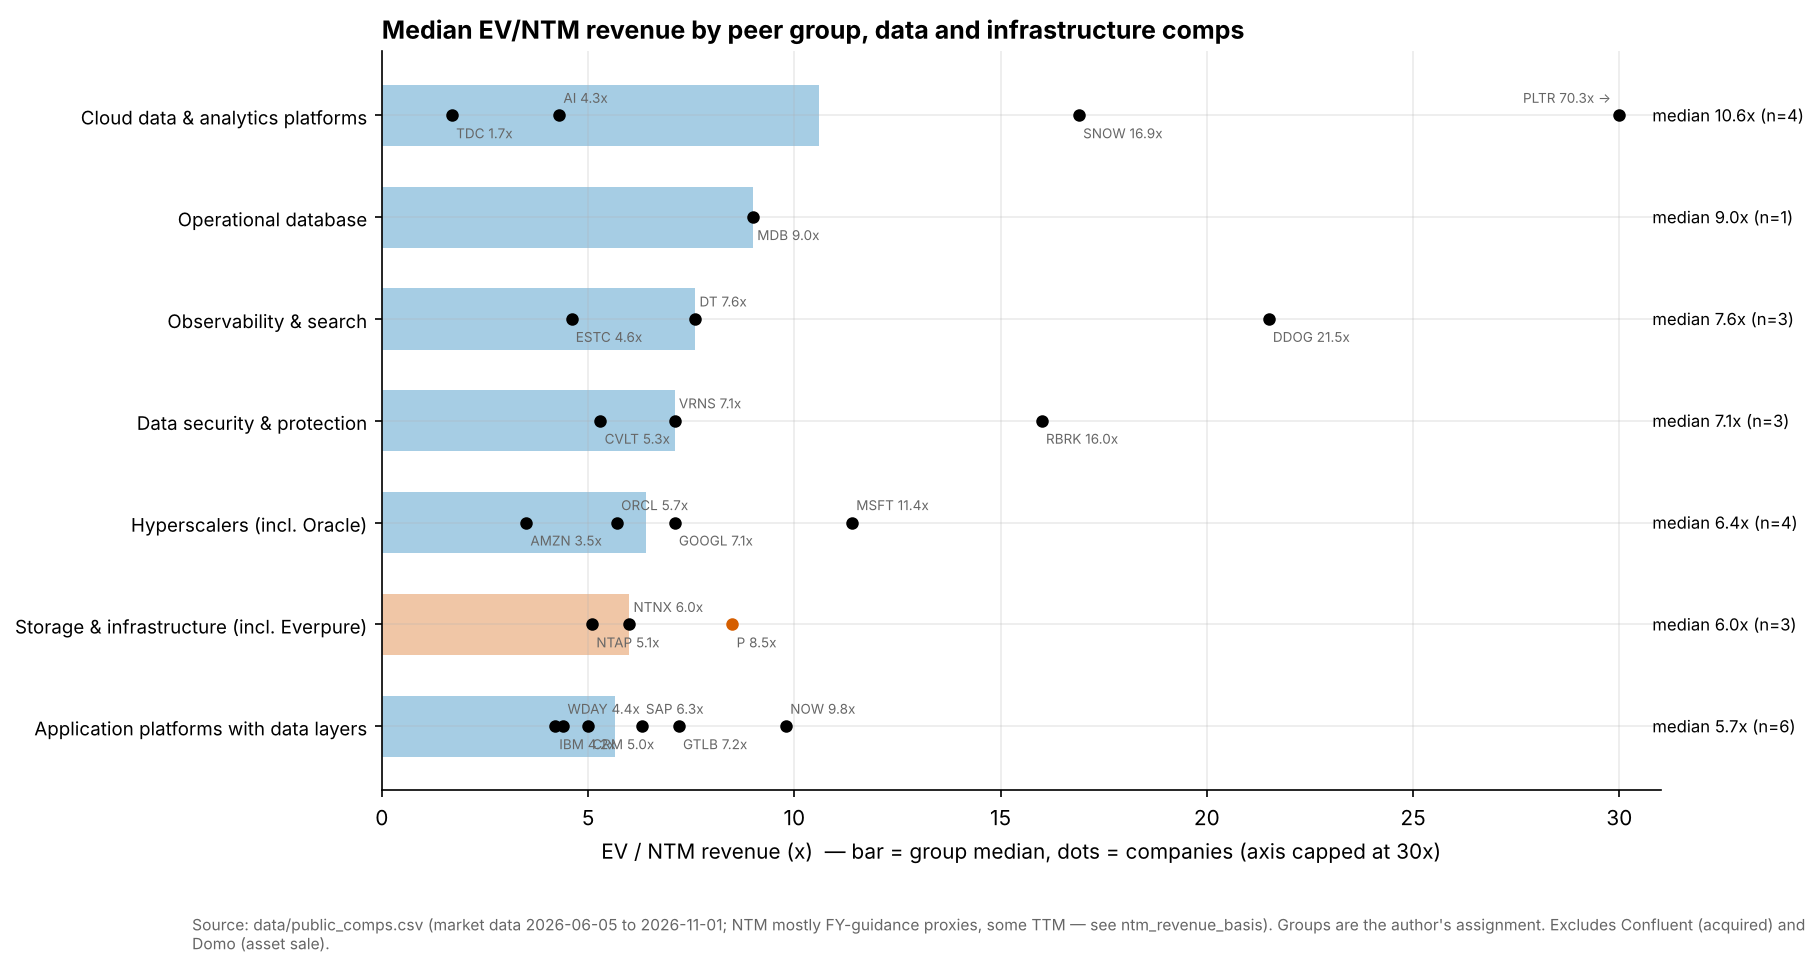
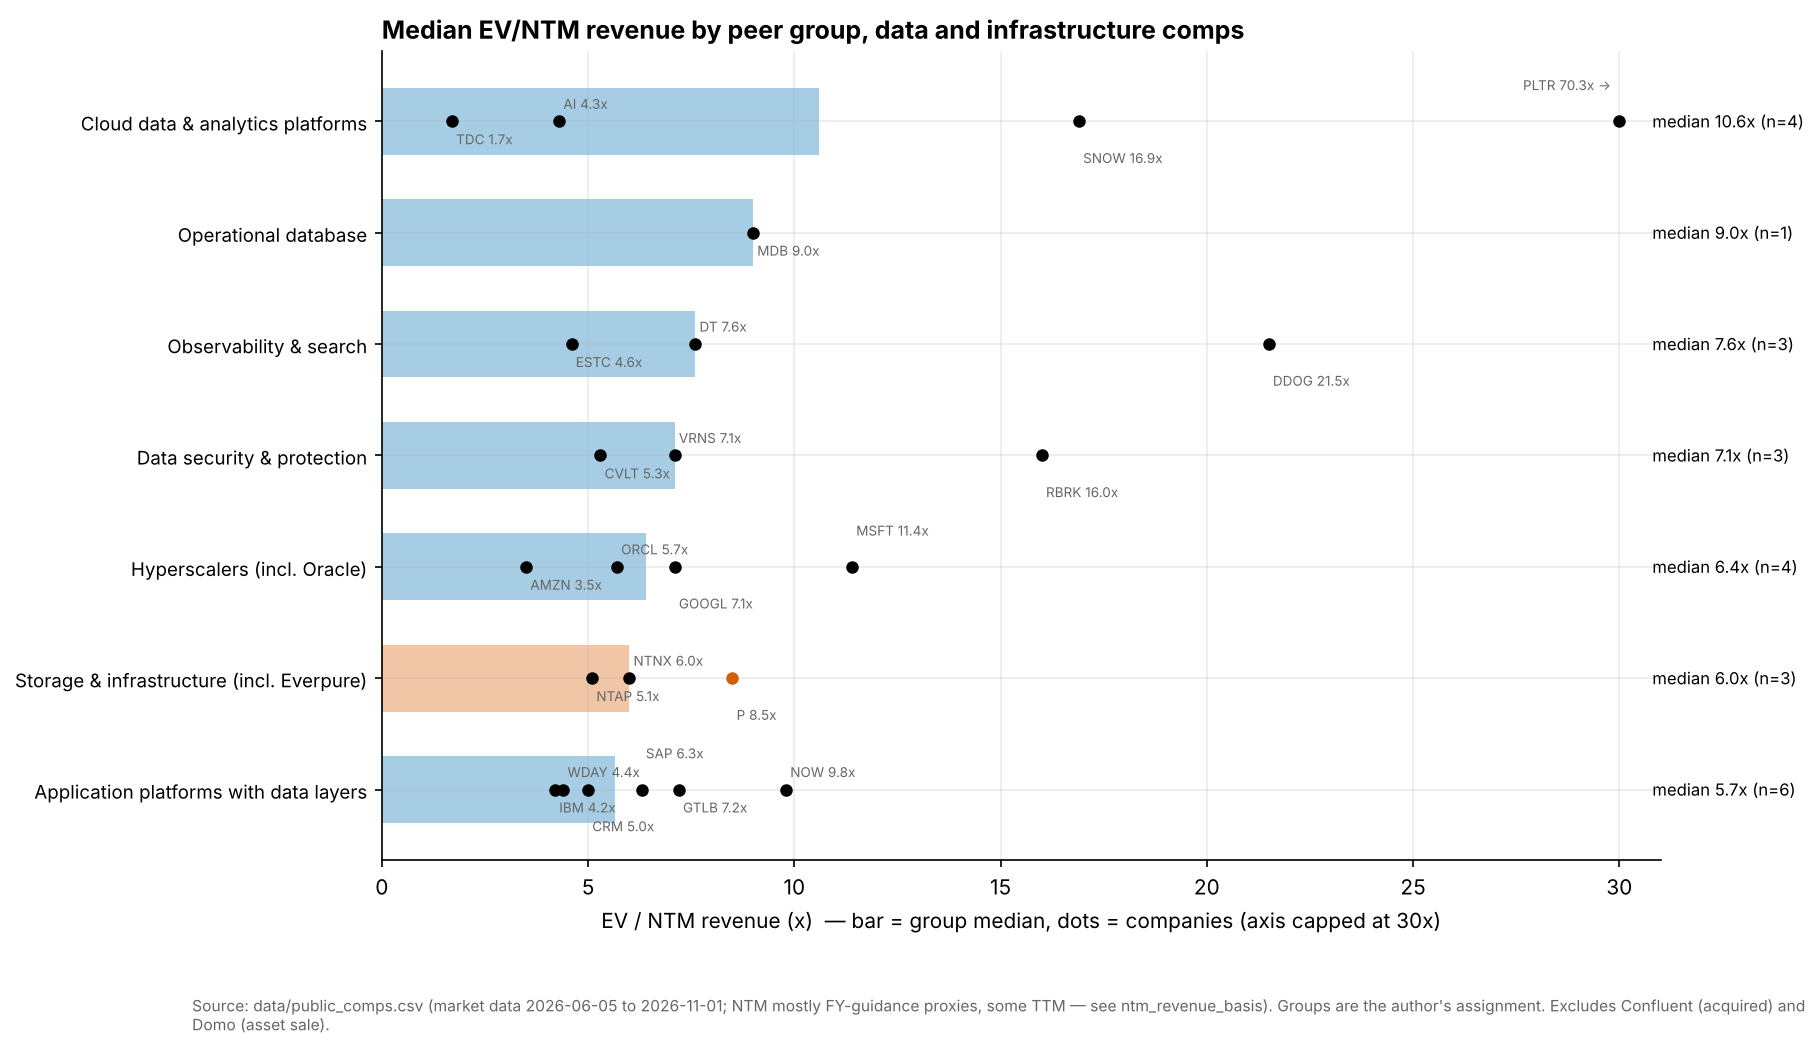
meta: reviewer brief; progress
Claude-Session: https://claude.ai/code/session_015j6Et44vVa5dK62bXN3KKX

diff --git a/scripts/charts/ch36_rule_of_40.py b/scripts/charts/ch36_rule_of_40.py
@@ -1,0 +1,46 @@
+"""Ch 36: Rule of 40 scatter - latest revenue growth vs FCF margin (data/ch36_rule_of_40.csv)."""
+import numpy as np
+
+from chartlib import load, num, save, source_note, PALETTE, plt
+
+OFFSETS = {"NTNX": (-62, -14), "ESTC": (6, 4), "SNOW": (9, -5), "DDOG": (6, 5), "P": (6, -12), "RBRK": (6, 5),
+           "MDB": (-62, -14), "NTAP": (-62, 5)}
+HIGHLIGHT = {"SNOW": PALETTE["blue"], "MDB": PALETTE["green"], "P": PALETTE["vermillion"]}
+
+
+def make():
+    d = load("ch36_rule_of_40")
+    d["g"] = num(d["revenue_growth_yoy_pct"])
+    d["f"] = num(d["fcf_margin_pct"])
+    fig, ax = plt.subplots(figsize=(10, 6.2))
+
+    xs = np.linspace(-5, 100, 50)
+    ax.plot(xs, 40 - xs, color=PALETTE["grey"], linestyle="--", linewidth=1.3)
+    ax.fill_between(xs, 40 - xs, 75, color=PALETTE["green"], alpha=0.06)
+    ax.text(3, 40, "Rule of 40 line\n(growth + FCF margin = 40)", fontsize=8, color=PALETTE["grey"], va="bottom")
+
+    markers = {"quarter": "o", "full-year": "s"}
+    for basis, mk in markers.items():
+        sub = d[d["fcf_basis_type"] == basis]
+        cols = [HIGHLIGHT.get(t, PALETTE["orange"]) for t in sub["ticker"]]
+        ax.scatter(sub["g"], sub["f"], s=70, marker=mk, c=cols, edgecolor="black", linewidth=0.5, zorder=3)
+    for _, r in d.iterrows():
+        label = f"{r['ticker']} ({r['rule_of_40']:.0f})"
+        ax.annotate(label, (r["g"], r["f"]), xytext=OFFSETS.get(r["ticker"], (6, 4)), textcoords="offset points", fontsize=8.5,
+                    color=HIGHLIGHT.get(r["ticker"], "black"),
+                    fontweight="bold" if r["ticker"] in HIGHLIGHT else "normal")
+
+    # legend proxies for FCF basis
+    ax.scatter([], [], marker="o", c="white", edgecolor="black", label="FCF margin = latest reported quarter")
+    ax.scatter([], [], marker="s", c="white", edgecolor="black", label="FCF margin = full-year guide or full-year actual")
+    ax.legend(loc="lower right", fontsize=8, frameon=False)
+    ax.set_xlim(0, 100)
+    ax.set_ylim(-2, 70)
+    ax.set_xlabel("Revenue growth, % YoY (GAAP total revenue, latest reported quarter; Nutanix = FY2026)")
+    ax.set_ylabel("Free cash flow margin, % (non-GAAP; company definitions)")
+    ax.set_title("Rule of 40: revenue growth vs FCF margin, data and infrastructure software comps (score in brackets)")
+    source_note(ax, "Source: data/ch36_rule_of_40.csv, compiled from company earnings releases (quarters ending Jun-Aug 2026; "
+                    "ServiceNow Q3 2026). FCF definitions differ: Snowflake/Palantir/Elastic/GitLab use 'adjusted' FCF. "
+                    "Everpure FCF margin is an estimate (FY2027 FCF guide midpoint / revenue guide midpoint). "
+                    "NetApp growth includes an extra week. Retrieved 2026-11-01.")
+    return [save(fig, "ch36_rule_of_40")]

diff --git a/meta/qa-report.md b/meta/qa-report.md
@@ -1,0 +1,42 @@
+# QA report
+
+Generated by `scripts/qa_report.py`.
+
+**Chapters:** 34 · **Prose words:** 129,773 · **Visuals:** 321 (Mermaid 143, images 18, tables 160) · **[VERIFY] markers:** 439 · **Chapters with problems:** 0
+
+| File | Words | Budget | Visuals (M/I/T) | W/visual | VERIFY | Footnotes | Problems |
+|---|---|---|---|---|---|---|---|
+| ch01-data-stack-map.md | 3,417 | 2200 | 10 (4/0/6) | 342 | 4 | 22 | OK |
+| ch02-data-models.md | 3,201 | 1900 | 7 (4/0/3) | 457 | 5 | 20 | OK |
+| ch03-database-internals.md | 4,376 | 2300 | 10 (5/0/5) | 438 | 1 | 26 | OK |
+| ch04-distributed-databases.md | 4,315 | 2000 | 10 (5/0/5) | 432 | 4 | 29 | OK |
+| ch05-analytical-engines.md | 3,400 | 2200 | 8 (5/0/3) | 425 | 2 | 27 | OK |
+| ch06-file-formats.md | 2,967 | 1800 | 7 (4/0/3) | 424 | 6 | 29 | OK |
+| ch07-open-table-formats.md | 3,602 | 2000 | 9 (6/0/3) | 400 | 2 | 44 | OK |
+| ch08-catalogs-and-metastores.md | 2,640 | 1600 | 6 (3/0/3) | 440 | 8 | 32 | OK |
+| ch09-pipeline-patterns.md | 3,461 | 2000 | 10 (5/0/5) | 346 | 3 | 27 | OK |
+| ch10-ingestion-and-integration.md | 2,751 | 1900 | 8 (4/0/4) | 344 | 9 | 37 | OK |
+| ch11-streaming-and-event-platforms.md | 3,593 | 2200 | 10 (5/0/5) | 359 | 5 | 36 | OK |
+| ch12-transformation-and-orchestration.md | 3,250 | 1900 | 7 (3/0/4) | 464 | 3 | 34 | OK |
+| ch13-data-quality-observability-lineage.md | 3,395 | 1800 | 8 (4/0/4) | 424 | 6 | 31 | OK |
+| ch14-semantic-layers-and-bi.md | 2,857 | 2000 | 7 (4/0/3) | 408 | 4 | 33 | OK |
+| ch15-governance-security-privacy.md | 4,343 | 2200 | 8 (4/0/4) | 543 | 9 | 49 | OK |
+| ch16-ai-data-lifecycle.md | 3,600 | 2200 | 6 (3/0/3) | 600 | 1 | 32 | OK |
+| ch17-unstructured-data-processing.md | 3,144 | 2100 | 10 (5/0/5) | 314 | 11 | 32 | OK |
+| ch18-embeddings-and-vector-search.md | 4,359 | 2600 | 11 (6/1/4) | 396 | 5 | 41 | OK |
+| ch19-retrieval-architectures.md | 3,781 | 2200 | 11 (5/0/6) | 344 | 7 | 37 | OK |
+| ch20-training-data-supply-chain.md | 3,610 | 2200 | 8 (3/1/4) | 451 | 20 | 42 | OK |
+| ch21-ml-platforms-feature-stores-llmops.md | 3,436 | 2100 | 9 (4/0/5) | 382 | 0 | 34 | OK |
+| ch22-agents-and-data.md | 4,255 | 2400 | 10 (4/0/6) | 426 | 4 | 35 | OK |
+| ch23-real-time-analytics-htap.md | 3,360 | 2000 | 9 (5/0/4) | 373 | 13 | 32 | OK |
+| ch24-data-meets-compute-and-storage.md | 3,630 | 2200 | 11 (6/0/5) | 330 | 5 | 43 | OK |
+| ch25-databricks.md | 5,237 | 4500 | 13 (5/2/6) | 403 | 6 | 56 | OK |
+| ch26-snowflake.md | 6,237 | 4500 | 16 (4/6/6) | 390 | 28 | 55 | OK |
+| ch27-databricks-vs-snowflake.md | 3,875 | 2500 | 11 (3/1/7) | 352 | 17 | 37 | OK |
+| ch28-hyperscaler-data-platforms.md | 5,206 | 3500 | 10 (3/1/6) | 521 | 29 | 56 | OK |
+| ch29-operational-database-vendors.md | 4,383 | 3000 | 11 (3/2/6) | 398 | 46 | 55 | OK |
+| ch30-data-movement-streaming-companies.md | 4,152 | 3000 | 10 (4/1/5) | 415 | 42 | 56 | OK |
+| ch31-analytical-engine-challengers-legacy.md | 4,389 | 3000 | 8 (3/1/4) | 549 | 30 | 57 | OK |
+| ch32-ai-native-data-companies.md | 4,637 | 3500 | 11 (3/2/6) | 422 | 36 | 53 | OK |
+| ch33-governance-catalog-security-companies.md | 3,495 | 2500 | 9 (4/0/5) | 388 | 18 | 43 | OK |
+| ch34-application-giants-data-platforms.md | 3,419 | 2000 | 12 (5/0/7) | 285 | 50 | 36 | OK |

diff --git a/meta/reviewer-brief.md b/meta/reviewer-brief.md
@@ -1,0 +1,25 @@
+# Independent reviewer brief (Phase 2)
+
+You are a **skeptical principal data-platform engineer AND a buy-side software analyst (CFA)**. You have not seen the drafting. Your job: fact-check every technical, financial and deal claim in your assigned chapters; flag and FIX stale figures, fiscal-year mix-ups, GAAP/non-GAAP confusion, run-rate vs revenue confusion, oversimplifications, vendor bias/marketing tone, internal contradictions, and inconsistencies with the single sources of truth.
+
+## Sources of truth, in priority order
+1. `meta/verified-facts.md` — facts live-verified by the integrator on 2026-11-01. These override chapter text and CSVs.
+2. `data/*.csv` — canonical numbers (each row has source + as_of). Chapter numbers must match them (or the verified-facts register).
+3. Bottom-of-file integrator notes in `meta/research-briefing.md`.
+4. Your own knowledge for settled pre-2025 facts (papers, founding dates, architecture). For anything after mid-2025 not in 1–3, do NOT change it to your memory; leave or add `[VERIFY: …]`.
+
+**Web search is unavailable to you** (the session pool is exhausted); do not spend calls on it. WebFetch is blocked.
+
+## What to do in each chapter
+- Read the whole chapter. Check: every number labelled (GAAP / non-GAAP / company-stated run-rate / press-reported / estimate); fiscal years explicit and correct (Snowflake/MongoDB/Salesforce FY ends Jan 31; Oracle May 31; Microsoft Jun 30; Everpure ~early Feb; Confluent calendar); ARR vs run-rate vs revenue distinguished; multiples dated with basis; deal values with basis; product names current (see verified-facts: CoWork/CoCo, Data 360, Gemini Enterprise Agent Platform, Lakeflow Spark Declarative Pipelines, Everpure ticker P, MongoDB CEO events, etc.).
+- Technical accuracy at L2 (e.g., LSM vs B-tree claims, isolation anomalies, Iceberg metadata, HNSW parameters, Kafka semantics). Fix errors; sharpen oversimplifications with a clause, not an essay.
+- Balance: remove marketing language; make sure bull and bear cases are both steelmanned; vendor-stated performance claims labelled as vendor-stated.
+- Where a `[VERIFY]` can be resolved from sources 1–3, resolve it (remove the marker, fix the text, update the footnote). Do not delete `[VERIFY]` markers you cannot resolve.
+- Keep template headings, footnotes, captions and Mermaid intact. Do not reduce prose length materially (word count must stay ≥ budget in meta/outline.md). If you edit Mermaid, re-run `scripts/lint_mermaid.sh <file>`.
+- After editing each chapter run: `python3 scripts/qa_report.py <file>` and `scripts/lint_mermaid.sh <file>`.
+- If you find a CSV error, stage a correction row in `data/staging/review-<part>-<file>.csv` (same header; "CORRECTION" in notes/outcome).
+
+## Log
+Write `meta/reviews/<your-part>.md` with: chapters reviewed; a table of changes (chapter | issue | fix | source); disagreements you could not resolve or where you think the integrator should decide; remaining high-risk `[VERIFY]` items. Do not run git. Do not edit files outside your chapters, your review log and staging.
+
+Reply in ≤150 words: chapters reviewed, number of fixes, most serious issues found.

diff --git a/PROGRESS.md b/PROGRESS.md
@@ -4,7 +4,7 @@
 
 ## Current status
 
-- **Phase:** 1 — Parts 1–3 drafted and integrated (QA OK); Ch 25 done; Part 4 (Ch 26–34) drafting; Part 5 launching next.
+- **Phase:** 1–2 overlap — Parts 1–4 drafted; Part 5 (35–41) and Part 6 (42–45) drafting; Phase 2 reviewers running for Parts 1, 2, 3, 4a, 4b (see meta/reviewer-brief.md, logs in meta/reviews/). Subagent web search exhausted; integrator verifies key facts live into meta/verified-facts.md.
 - **Next step:** integrate Part 4 as agents report; launch Part 5 (Ch 35–41), then Part 6 (42–45), then Part 7 + Part 0; then Phase 2 reviewers per Part; then Phase 3 (glossary ≥350 via scripts/build_glossary.py, README, final QA, deploy).
 - **Integration routine:** `scripts/integrate.sh <chapter.md> "docs(chNN): …"` (QA + Mermaid lint + merge staging + charts + PROGRESS + commit), then `git push -u origin claude/loving-brahmagupta-stqbpn`. Briefing corrections go to the bottom of `meta/research-briefing.md`.
 
